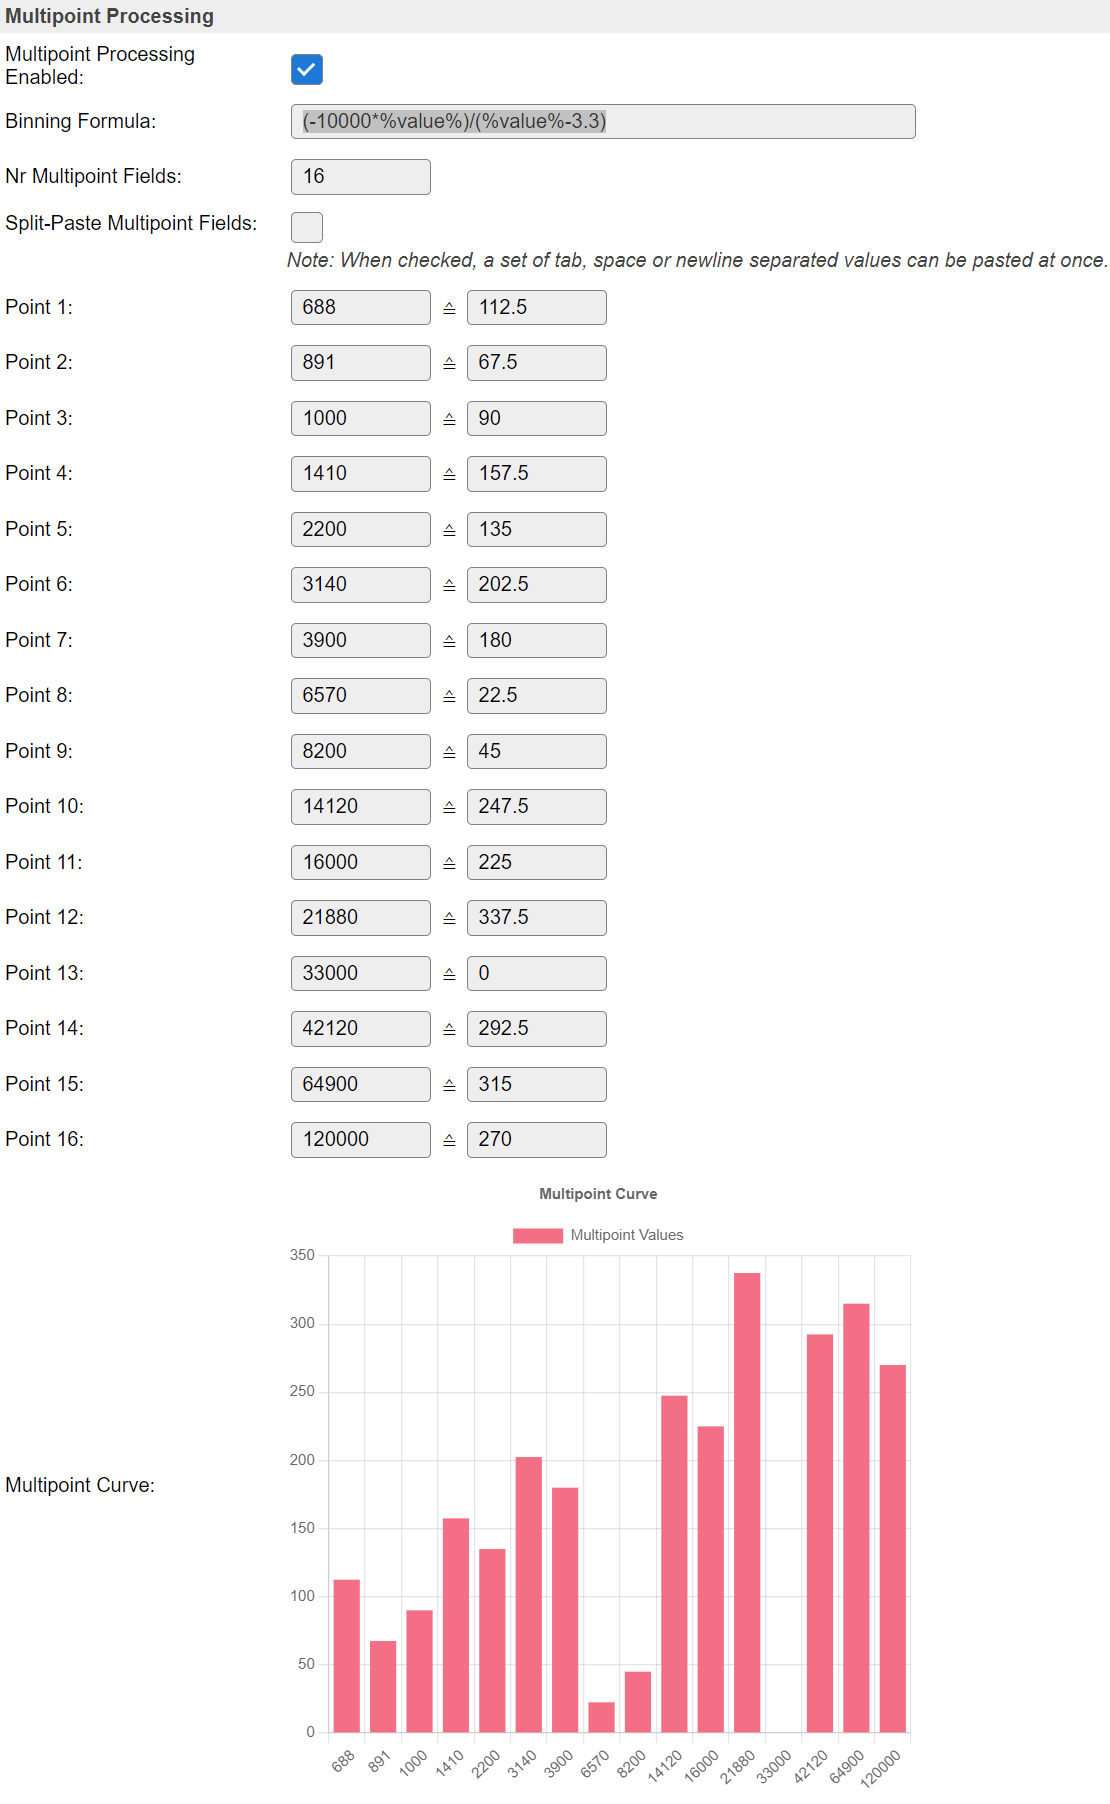
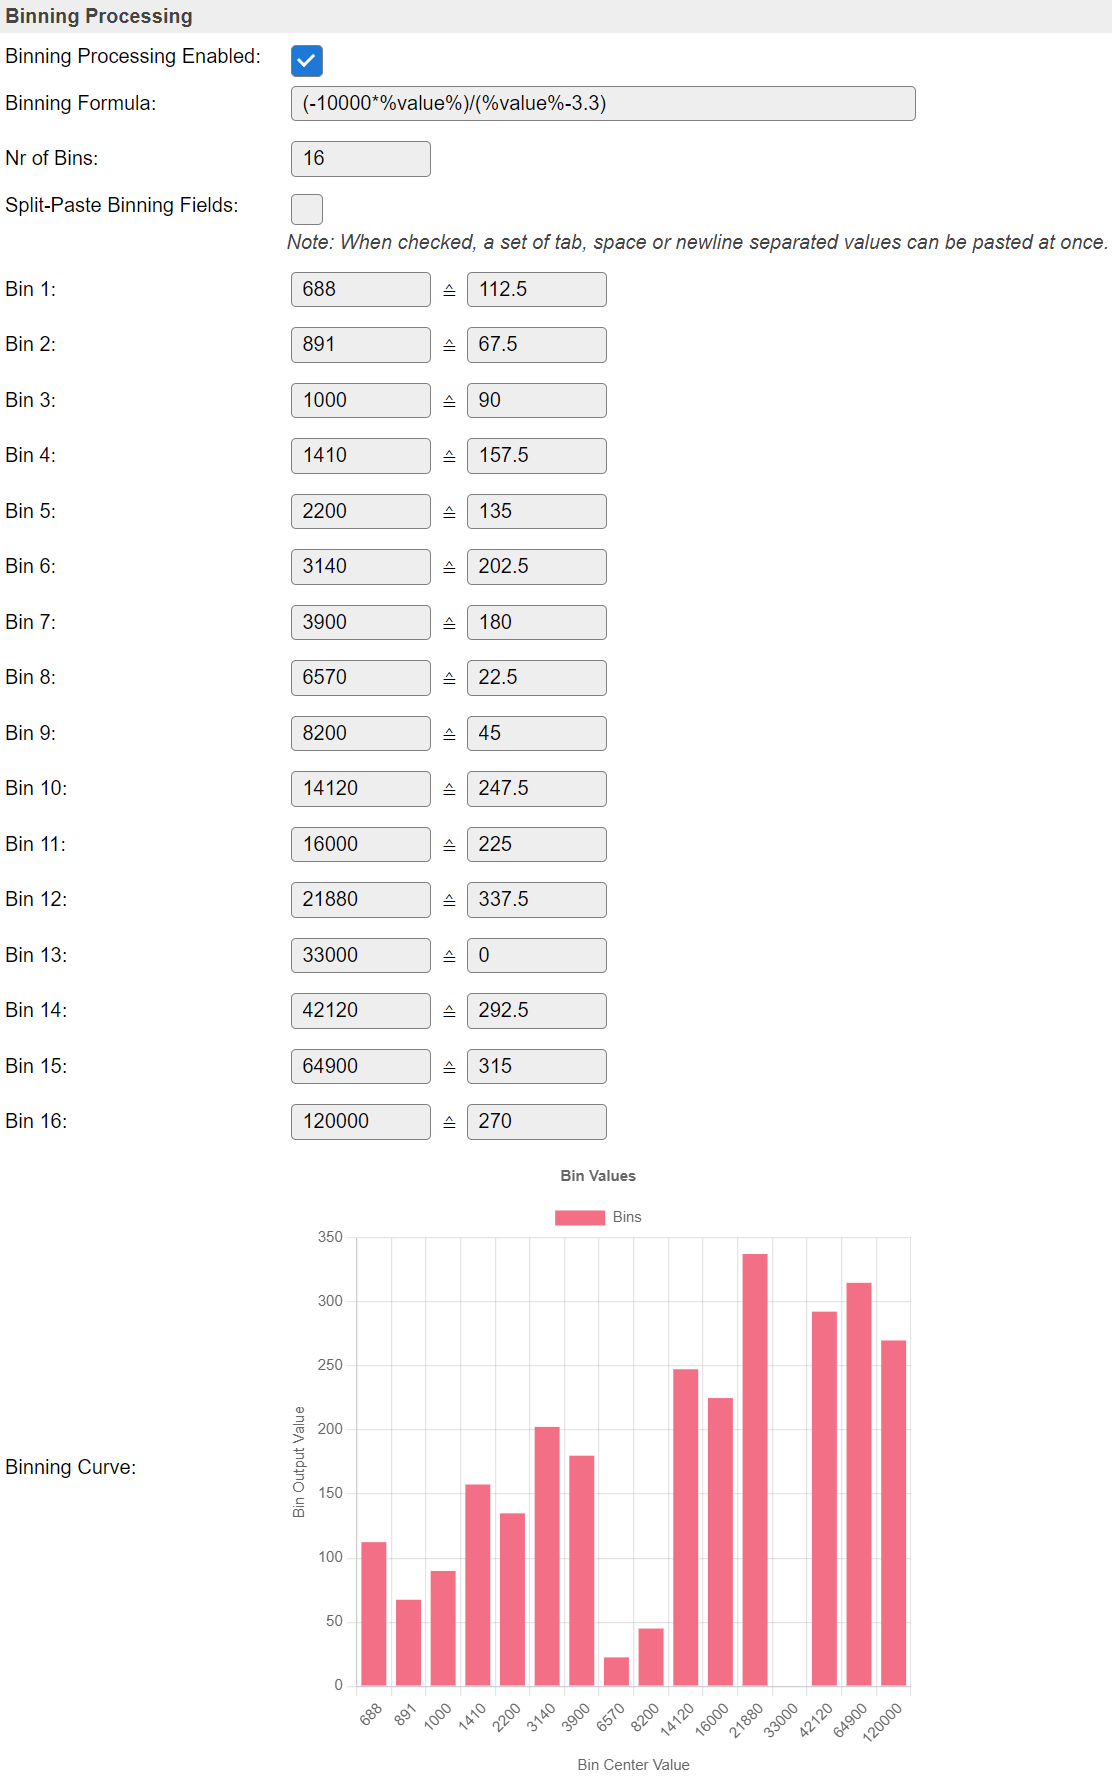
[ADC] Update documentation

diff --git a/src/src/PluginStructs/P002_data_struct.cpp b/src/src/PluginStructs/P002_data_struct.cpp
@@ -83,10 +83,17 @@ void P002_data_struct::webformLoad_2p_calibPoint(
 {
   addRowLabel_tr_id(label, id_point);
   addTextBox(id_point, String(point), 10, false, false, EMPTY_STRING, F("number"));
+
+#ifdef ESP32
+  if (_useFactoryCalibration) {
+    addUnit(F("mV"));
+  }
+#endif
+
   html_add_estimate_symbol();
   const unsigned int display_nrDecimals = _nrDecimals > 3 ? _nrDecimals : 3;
 
-  addTextBox(id_value, toString(value, display_nrDecimals), 10, F("number"));
+  addTextBox(id_value, toString(value, display_nrDecimals), 10, false, false, EMPTY_STRING, F("number"));
 }
 
 void P002_data_struct::webformLoad(struct EventStruct *event)

diff --git a/docs/source/Plugin/P002.rst b/docs/source/Plugin/P002.rst
@@ -86,47 +86,39 @@ N.B. The initial chart on the setup page of an Analog Input task will only show 
 
 With ``Apply Factory Calibration`` checked, the Analog Input plugin in ESPEasy will perform the reading in mV.
 
+.. note:: Even though the various attenuation settings seem to have their own calibration, there is still some difference in reported measured voltage in mV per attentuation setting.
+
+
+
 
 Oversampling
 ------------
 
+The "Oversampling" mode has 3 options:
+
+* Use Current Sample
+* Oversampling
+* Binning
+
+"Use Current Sample" only takes a sample when the task is run.
+
 With ``Oversampling`` selected, the task will take a sample 10x per second.
 These are averaged over the period set by the ``Interval`` timer. (or shorter interval when the task is executed via the ``TaskRun`` command)
+
 This mode also takes out the highest and lowest sample values to make sure a single fluke measurement is not affecting the output value too much.
 
-Binning
--------
-
-Added: 2022/07/11
-
-For some use cases, a strict classification of data is needed.
-
-A typical use case is the wind vane of a very popular set, the DS-15901.
-
-.. image:: P002_DS-15901_wind_vane_schematics.png
-
-This wind vane uses a magnet to trigger a number of reed switches which will then activate a resistor.
-What makes this setup rather complex is that for some angles 2 resistors will be active and thus effectively lower the seen resistance between 2 other wind directions.
-
-Plot of voltage measured over the wind vane when using a 10k resistor in series with the wind vane:
-
-.. image:: P002_voltage_vs_wind_dir.png
+The returned value is the average of recorded samples over the ``Interval`` persiod, minus the minimum and maximum sample value in that period.
+Thus at 1 second interval, the average is typically taken over 8 samples.
 
 
-For this use case, it is not possible to use oversampling as this may result in very unstable readings.
-We need to map a range of values to a single output value.
+"Binning" can be compared to "sort and count" like those bank teller machines sorting coins.
+Only difference is that we're not interested in the total value of all the coins, but want to know which coin we had the most.
 
-Plotting the resistance range from the wind vane datasheet:
+So we're doing a classification of the most frequently occuring coin.
 
-.. image:: P002_range_resistance_per_bin.png
 
-As can be seen, the ranges are quite small for some and quite large for others.
-But also the wind direction is not increasing when the resistance increases.
-
-Therefore we need a look-up table. (see Multipoint Processing below)
-
-What binning does is it tries to match each sample to a specific bin (an entry in the Multipoint Processing table) and simply counts each occurence per bin.
-After a measurement period (the time between 2 calls to "run" the task, typically the "interval") the bin with the highest count is picked and the output value of this bin will be returned as output.
+Binning data processing differs from the other two.
+See also the section "Binning Processing" below.
 
 
 Two Point Calibration
@@ -188,15 +180,98 @@ Often such curves will be modeled first in a spreadsheet program.
 To simply copy/paste 2 columns of data from a spreadsheet into the task settings, one has to check "Split-Paste Multipoint Fields" first and then paste these columns into the first field.
 By checking this checkbox, some JavaScript will be set active to decode the values and place them in separate fields.
 
+Example of some curve generated in a spreadsheet and paste into the fields:
+
+.. image:: P002_multipoint_processing.png
+
+To see the effect of all selected settings, a chart will be generated with simulated data using the input range of the ADC.
+Thus taking into account the set attenuation (on ESP32).
+
+.. image:: P002_multipoint_processing_simulated_curve1.png
+
+By default, only the curve matching the actual settings is displayed.
+But the others can be enabled by simply clicking their labels in the chart legend.
+
+For example, enabling the "2 Point Calibration only" curve too:
+
+.. image:: P002_multipoint_processing_simulated_curve2.png
+
+The purple line shows the mapping of input to output when only enabling the 2-point calibration.
+
+The blue line shows the mapping when using both 2-point calibration and the multipoint curve.
+
+The example multipoint curve used here was deliberately constructed to map an input of 16 to an output of 16 to show what happens "outside" the defined range of the multipoint curve.
+
+Those inputs (of the multipoint curve) higher than 16 will be extrapolated continuing the last 2 given points of the Multipoint curve.
+
+
+
+
+
+
+Binning Processing
+------------------
+
+Added: 2022/07/11
+
+For some use cases, a strict classification of data is needed.
+
+A typical use case is the wind vane of a very popular set to build your own weather station, the DS-15901.
+
+.. image:: P002_DS-15901_wind_vane_schematics.png
+
+This wind vane uses a magnet to trigger a number of reed switches which will then activate a resistor.
+What makes this setup rather complex is that for some angles 2 resistors will be active and thus effectively lower the seen resistance inbetween 2 other wind directions.
+
+The example setup measures the voltage over the wind vane, with a 10k resistor set as pull-up resistor to 3.3V.
+
+Here the plot of the measured voltage over the wind vane per direction:
+
+.. image:: P002_voltage_vs_wind_dir.png
+
+For this use case, it is not possible to use oversampling as this may result in very unstable readings.
+We need to map a range of values to a single output value.
+
+Plotting the resistance range from the wind vane datasheet:
+
+.. image:: P002_range_resistance_per_bin.png
+
+As can be seen, the ranges are quite small for some and quite large for others.
+But also the wind direction is not increasing when the resistance increases.
+
+Therefore we need a look-up table. 
+
+What binning does is it tries to match each sample to a specific bin (similar to an entry in the Multipoint Processing table) and simply counts each occurence per bin.
+After a measurement period (the time between 2 calls to "run" the task, typically the "interval") the bin with the highest count is picked and the output value of this bin will be returned as output.
 
 When using "Binning", it can be useful to also have some formula to process the data first before mapping the data to the correct bin.
 
 For example the wind vane with a 10k in series, connected to 3.3V.
 To convert the measured voltage into a resistance, one can use this formula: ``(-10000*%value%)/(%value%-3.3)``
 
-With the values converted into a resistance, one can simply use the stated values in the sensor datasheet.
+The 2-point calibration can be used to simply convert mVolt to Volt by entering just a single calibration point to convert ``1000`` -> ``1``.
+
+Or change the Binning Formula accordingly to handle mVolt instead of Volt: ``(-10000*%value%)/(%value%-3300)``
+
+.. note:: The Binning Formula will be processed before matching bins. The regular Formula field which is present on nearly all tasks at the bottom of the page is processing only the values sent to the "output" of a task.
+
+With the sampled values converted into a resistance, one can simply use the stated values in the sensor datasheet.
 
 .. image:: P002_multipoint_binning.png
+
+On each sample taken between two run calls of the task, the sample value will be processed by all set steps (Factory Calibration, 2-point calibration, Binning formula) and the resulting value will be matched against the range of each bin.
+The count for the matching bin will be incremented by 1.
+
+At the end of such a period of the task:
+
+* The bin with the highest count "wins".
+* The assigned value of the winning bin will be put as task value output and send to any connected controllers.
+* The counts in all bins will then also be cleared to be ready for the next run.
+
+.. note:: The values set to define a bin represent the center of the bin. The bin range is upto halfway the center of the next bin.
+
+
+
 
 
 Processing Order
@@ -207,7 +282,7 @@ All steps between ADC and output of the task are processed in the order they app
 * Attenuation (ESP32 only)
 * Factory Calibration  (ESP32 only)
 * Two Point Calibration
-* Multipoint Processing ("Binning formula" first when set to Binning)
+* Multipoint Processing or Binning Processing ("Binning formula" first when set to Binning)
 * Formula at the bottom, when set.
 
 
@@ -234,6 +309,7 @@ ESP32 has 2 ADCs present.
 Since the ``ADC2`` is shared with the WIFI module, which has higher priority, reading operation of ``adc2_get_raw()`` may fail between ``esp_wifi_start()`` and ``esp_wifi_stop()``.
 
 
+
 Use of Formula
 --------------
 
@@ -248,6 +324,7 @@ However this makes the measured voltage no longer linear to the measured resista
 Then we only need a way to compute the measured resistance instead of the voltage.
 
 For this we first need to make sure the calibration is done so the ADC plugin outputs the correct voltage applied to the configured analog input pin.
+On ESP32 this is relatively easy by enabling Factory Calibration. However the values are then in mVolt, not in Volt.
 
 Then we must derive a formula to convert the voltage into a resistance value.
 
@@ -264,6 +341,10 @@ This can be derived into:
 When using 10k as a value for r2, we can use this in the formula field:
 
 ``(-10000*%value%)/(%value%-3.3)``
+
+Or using the mVolt readings when using Factory Calibration:
+
+``(-10000*%value%)/(%value%-3300)``
 
 With proper calibration and this formula present, we now get the measured resistance on the output.
 
@@ -290,6 +371,8 @@ Change log
   ...
 
   |improved| 2020-04-25  Added support for ESP32 ADC pins + Hall Effect Sensor.
+  |improved| 2022-07-11  Added ESP32 Factory calibration, multipoint processing, binning and charts.
+  |improved| 2022-07-27  Improved resolution when using ESP32 Factory Calibration.
 
 .. versionadded:: 1.0
   ...
